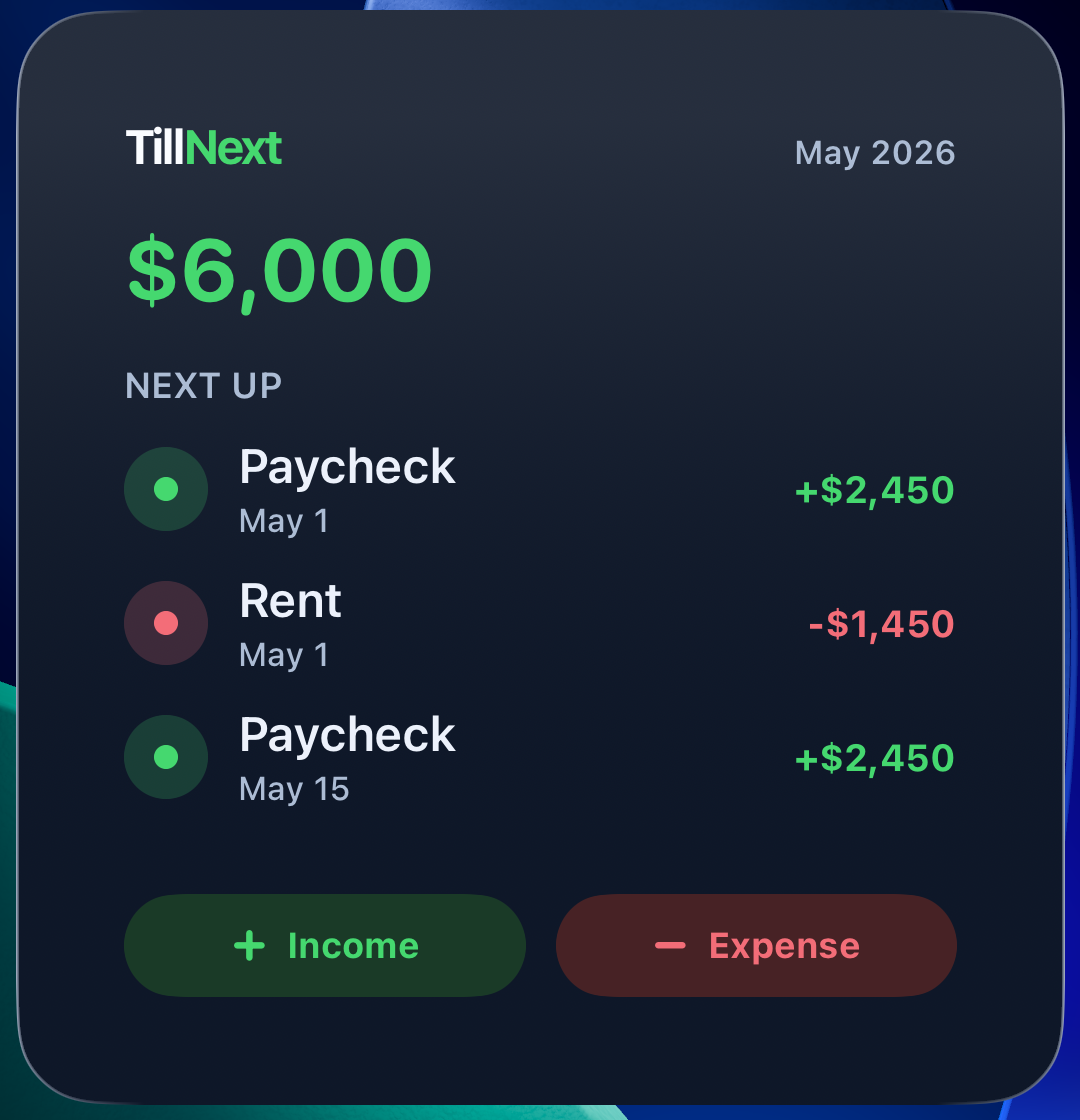
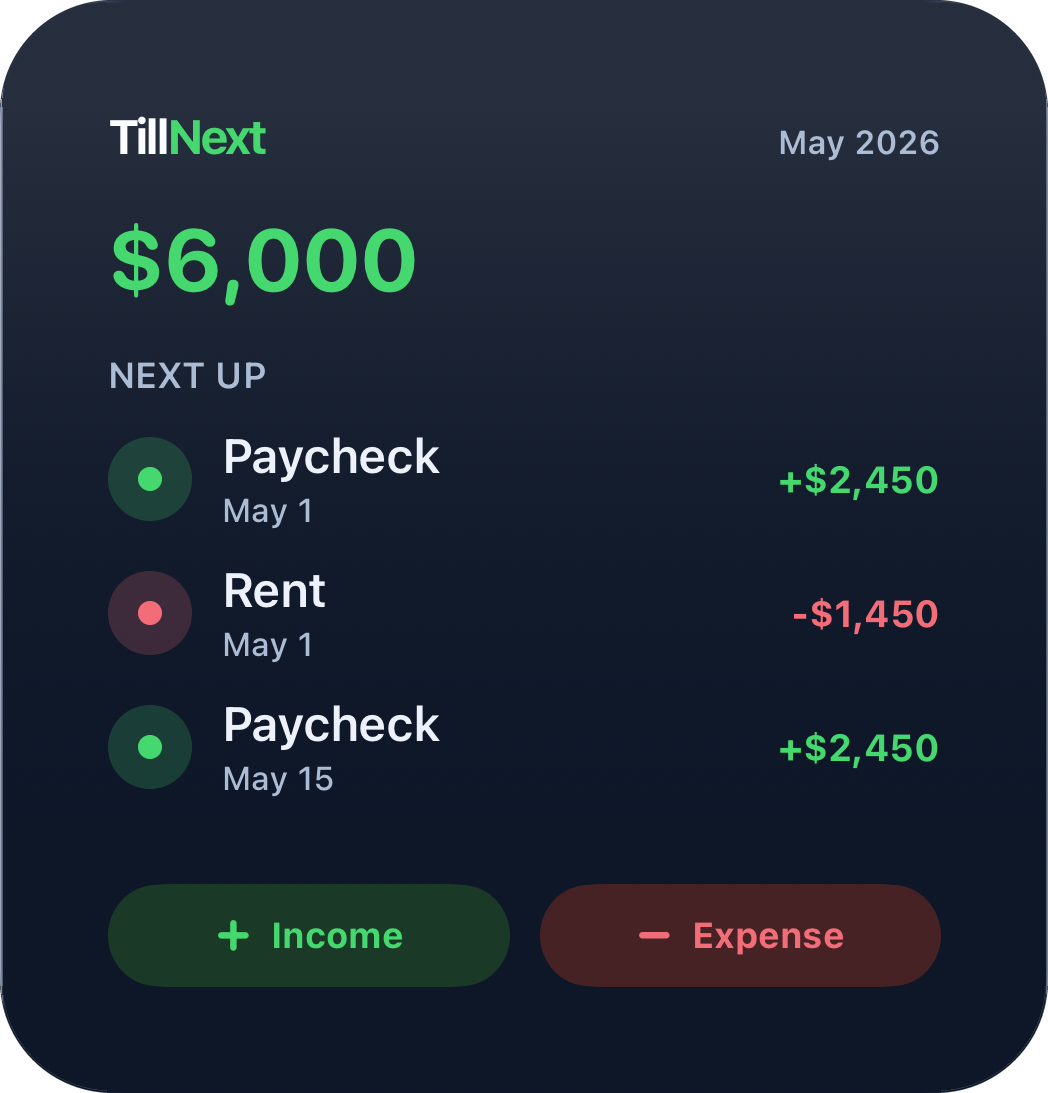
Crop widget showcase overlay

diff --git a/styles.css b/styles.css
@@ -365,9 +365,8 @@ img {
   height: auto;
   margin: 0;
   object-fit: cover;
-  border: 1px solid var(--outline);
   border-radius: 24px;
-  box-shadow: 0 24px 52px rgba(0, 0, 0, 0.24);
+  filter: drop-shadow(0 24px 52px rgba(0, 0, 0, 0.28));
 }
 
 .example-grid {
